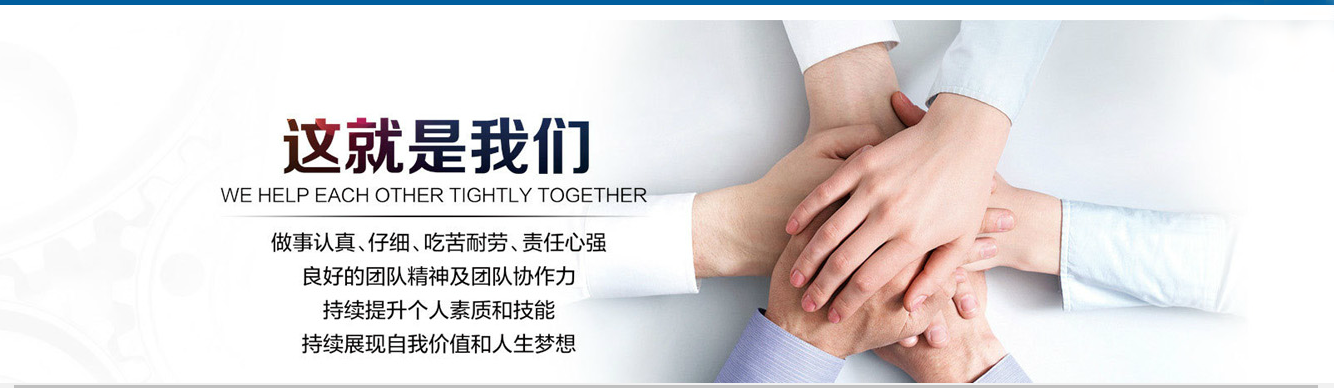
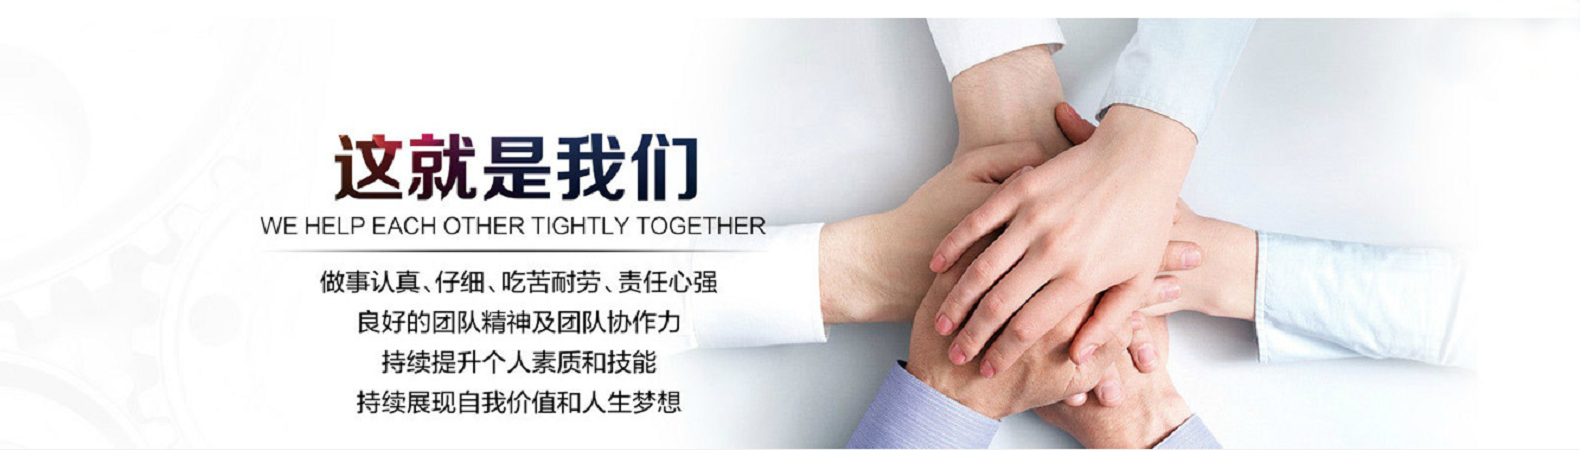
完成04-27

diff --git a/public/css/index.css b/public/css/index.css
@@ -12,7 +12,7 @@
 }
 .module .center {
     position: absolute;
-    left: 50%;
+    left: 45%;
     top: 0;
     width: 1000px;
     height: 98px;
@@ -39,7 +39,7 @@
     height: 98px;
     border-right: 1px solid transparent;
     /*background: url(../images/y-bg4.png) no-repeat right center;*/
-    overflow: hidden;
+    /*overflow: hidden;*/
 }
 .kwicks .kwick div {
     width: 655px;
@@ -73,7 +73,7 @@
     padding-top: 10px;
     line-height: 20px;
     margin-left: 24px;
-    width: 300px;
+    width: 650px;
     float: left;
     font-size: 12px;
     /*font-family: '微软雅黑';*/

diff --git a/resources/views/index.blade.php b/resources/views/index.blade.php
@@ -79,16 +79,15 @@
     <section class="slider">
         <div id="slider" class="flexslider">
             <ul class="slides">
-                @if($data['about']->carousel != null)
+                @if($data['about']->picture != null)
                     <?php
-                    $pics = explode('@', $data['about']->carousel);
-                    $baseurl = $pics[0];
-                    $imagepath = array_shift($pics);
+                    $temps = explode(';', $data['about']->picture);
                     ?>
-                    @foreach($imagepath as $item)
+                    @foreach($temps as $item)
+                            <?php  $pic = explode('@', $item);?>
                         <li clearfix>
-                            <div class="col-sm-6">
-                                <img src="{{$baseurl}}{{$item}}" alt=""/>
+                            <div class="images">
+                                <img src="{{$pic[1]}}" alt="{{$pic[0]}}"/>
                             </div>
                         </li>
                     @endforeach
@@ -143,18 +142,18 @@
     </div>
     <div class="con_01">
         <div class="product_index index_title">
-            <p class="product_title">产品中心
+            <p class="product_title">@if($data['lang'] == 1) 产品中心 @else Product @endif
                 {{--<span>Product</span>--}}
             </p>
-            <p class="product_subtitle">Product</p>
-            <p class="product_subtitle">主营酸类、碱类、盐类、化学试剂等</p>
+            {{--<p class="product_title">Product</p>--}}
+            <p class="product_subtitle">@if($data['lang'] == 1) 主营酸类、碱类、盐类、化学试剂等 @else Main acids, alkaloids, salts, chemical reagents, etc. @endif</p>
         </div>
         <div class="box">
             <ul>
                 <li>
                     <dl>
                         <dt>
-                            <div class="fl span01">酸类</div>
+                            <div class="fl span01">@if($data['lang'] == 1) 酸类 @else Acids @endif</div>
                             <div class="fr pt5"><a href="/products?ptype=3" style="color:#5fa4e9;font-family:Arial;font-size:10px;">MORE&gt;</a></div>
                             <div class="cle"></div>
                         </dt>
@@ -164,7 +163,7 @@
                 <li>
                     <dl>
                         <dt>
-                            <div class="fl span01">碱类</div>
+                            <div class="fl span01">@if($data['lang'] == 1) 碱类 @else Alkaloids @endif</div>
                             <div class="fr pt5"><a href="/products?ptype=5" style="color:#5fa4e9;font-family:Arial;font-size:10px;">MORE&gt;</a></div>
                             <div class="cle"></div>
                         </dt>
@@ -174,7 +173,7 @@
                 <li>
                     <dl>
                         <dt>
-                            <div class="fl span01">盐类</div>
+                            <div class="fl span01">@if($data['lang'] == 1) 盐类 @else Salts @endif</div>
                             <div class="fr pt5"><a href="/products?ptype=6" style="color:#5fa4e9;font-family:Arial;font-size:10px;">MORE&gt;</a></div>
                             <div class="cle"></div>
                         </dt>
@@ -184,7 +183,7 @@
                 <li>
                     <dl>
                         <dt>
-                            <div class="fl span01">化学试剂</div>
+                            <div class="fl span01">@if($data['lang'] == 1) 化学试剂 @else Chemical reagents @endif</div>
                             <div class="fr pt5"><a href="/products?ptype=7" style="color:#5fa4e9;font-family:Arial;font-size:10px;">MORE&gt;</a></div>
                             <div class="cle"></div>
                         </dt>
@@ -243,11 +242,11 @@
     {{--</div>--}}
     <div class="about">
         <div class="product_index index_title" style="padding-top: 1.5rem; padding-bottom:1.5rem;background-color: #00adb5">
-            <p class="product_title">关于我们
+            <p class="product_title">@if($data['lang']==1) 关于我们 @else About Us @endif
                 {{--<span></span>--}}
             </p>
             {{--<p class="product_subtitle">{{$data['about']->brief}}</p>--}}
-            <p class="product_subtitle">About Us</p>
+            {{--<p class="product_subtitle">About Us</p>--}}
         </div>
         <div class="about-content">
             {{--<img src="{{asset('images/pic9.jpg')}}">--}}

diff --git a/resources/views/admin/addAds.blade.php b/resources/views/admin/addAds.blade.php
@@ -82,7 +82,7 @@
         <div class="card">
             <div class="header">
                 <h2>
-                    新增企业展示照片
+                    新增首页轮播图片
                 </h2>
             </div>
             <div class="top-border operate-content">
@@ -145,13 +145,13 @@
                     showCancelButton: true,
                     showConfirmButton: false
                 });
-            } else if (file.size > 2 * 1024 * 1024) {
+            } else if (file.size > 5 * 1024 * 1024) {
                 isCorrect = false;
                 $("#picture-big").val("");
                 swal({
                     title: "错误",
                     type: "error",
-                    text: "图片文件最大支持：2MB",
+                    text: "图片文件最大支持：5MB",
                     cancelButtonText: "关闭",
                     showCancelButton: true,
                     showConfirmButton: false
@@ -167,20 +167,20 @@
                         var height = image.height;
                         console.log(width + "//" + height);
 
-                        if (width !== 480 || height !== 480) {
+                        if (width < 1580 || height < 450) {
                             isCorrect = false;
                             $("#picture-big").val("");
                             swal({
                                 title: "错误",
                                 type: "error",
-                                text: "当前选择图片分辨率为: " + width + "px * " + height + "px \n大图片广告分辨率应为 480像素 * 480像素",
+                                text: "当前选择图片分辨率为: " + width + "px * " + height + "px \n大图片广告分辨率应为 1580像素 * 450像素",
                                 cancelButtonText: "关闭",
                                 showCancelButton: true,
                                 showConfirmButton: false
                             });
                         } else if (isCorrect) {
                             $("#preview-holder-big").html("<div class='image-preview'>" +
-                                "<img src='" + objectUrl + "' width='200' height='200'>" +
+                                "<img src='" + objectUrl + "' width='316' height='90'>" +
                                 "<i class='material-icons delete-image' onclick='deleteBigImage(this)'>close</i></div>");
                         }
                     };
@@ -226,7 +226,7 @@
 
             if (file.prop("files")[0] === undefined) {
                 console.log("file is empty");
-                setError(file, 'picture-big', "请上传广告图片200像素 * 200像素");
+                setError(file, 'picture-big', "请上传广告图片1580像素 * 450像素");
                 return;
             } else {
                 removeError(file, 'picture-big');
@@ -245,6 +245,9 @@
                 success: function (data) {
                     var result = JSON.parse(data);
                     checkResult(result.status, "添加成功", result.msg, null);
+                     setTimeout(function () {
+                         location.href="/admin/ads";
+                     }, 500);
                 },
                 error: function (xhr, ajaxOptions, thrownError) {
                     swal(xhr.status + "：" + thrownError);

diff --git a/resources/views/about.blade.php b/resources/views/about.blade.php
@@ -186,12 +186,12 @@
                         </div>
                         <div class="sidebar-item  recent">
                             <div class="widget">
-                                <h3 class="title">联系我们</h3>
+                                <h3 class="title">@if($data['lang']==1) 联系我们 @else Contact Us @endif</h3>
                                 <div class="content community">
-                                    <p>电话：{{$data['about']->tel}}</p>
-                                    <p>邮箱：{{$data['about']->email}}</p>
-                                    <p>传真：{{$data['about']->fax}}</p>
-                                    <p>公司地址：{{$data['about']->address}}</p>
+                                    <p>@if($data['lang']==1) 电话 @else Phone @endif：{{$data['about']->tel}}</p>
+                                    <p>@if($data['lang']==1) 邮箱 @else E-mail @endif：{{$data['about']->email}}</p>
+                                    <p>@if($data['lang']==1) 传真 @else Fax @endif：{{$data['about']->fax}}</p>
+                                    <p>@if($data['lang']==1) 公司地址 @else Address @endif：{{$data['about']->address}}</p>
                                     {{--<p><a href="http://wenda.ghostchina.com/" title="Ghost中文网问答社区" target="_blank" onclick="_hmt.push(['_trackEvent', 'big-button', 'click', '问答社区'])"><i class="fa fa-comments"></i> 问答社区</a></p>--}}
                                     {{--<p><a href="http://weibo.com/ghostchinacom" title="Ghost中文网官方微博" target="_blank" onclick="_hmt.push(['_trackEvent', 'big-button', 'click', '官方微博'])"><i class="fa fa-weibo"></i> 官方微博</a></p>--}}
                                 </div>

diff --git a/resources/views/advantage.blade.php b/resources/views/advantage.blade.php
@@ -170,12 +170,12 @@
                         </div>
                         <div class="sidebar-item  recent">
                             <div class="widget">
-                                <h3 class="title">联系我们</h3>
+                                <h3 class="title">@if($data['lang']==1) 联系我们 @else Contact Us @endif</h3>
                                 <div class="content community">
-                                    <p>电话：{{$data['about']->tel}}</p>
-                                    <p>邮箱：{{$data['about']->email}}</p>
-                                    <p>传真：{{$data['about']->fax}}</p>
-                                    <p>公司地址：{{$data['about']->address}}</p>
+                                    <p>@if($data['lang']==1) 电话 @else Phone @endif：{{$data['about']->tel}}</p>
+                                    <p>@if($data['lang']==1) 邮箱 @else E-mail @endif：{{$data['about']->email}}</p>
+                                    <p>@if($data['lang']==1) 传真 @else Fax @endif：{{$data['about']->fax}}</p>
+                                    <p>@if($data['lang']==1) 公司地址 @else Address @endif：{{$data['about']->address}}</p>
                                     {{--<p><a href="http://wenda.ghostchina.com/" title="Ghost中文网问答社区" target="_blank" onclick="_hmt.push(['_trackEvent', 'big-button', 'click', '问答社区'])"><i class="fa fa-comments"></i> 问答社区</a></p>--}}
                                     {{--<p><a href="http://weibo.com/ghostchinacom" title="Ghost中文网官方微博" target="_blank" onclick="_hmt.push(['_trackEvent', 'big-button', 'click', '官方微博'])"><i class="fa fa-weibo"></i> 官方微博</a></p>--}}
                                 </div>

diff --git a/resources/views/marketing.blade.php b/resources/views/marketing.blade.php
@@ -171,12 +171,12 @@
                         </div>
                         <div class="sidebar-item  recent">
                             <div class="widget">
-                                <h3 class="title">联系我们</h3>
+                                <h3 class="title">@if($data['lang']==1) 联系我们 @else Contact Us @endif</h3>
                                 <div class="content community">
-                                    <p>电话：{{$data['about']->tel}}</p>
-                                    <p>邮箱：{{$data['about']->email}}</p>
-                                    <p>传真：{{$data['about']->fax}}</p>
-                                    <p>公司地址：{{$data['about']->address}}</p>
+                                    <p>@if($data['lang']==1) 电话 @else Phone @endif：{{$data['about']->tel}}</p>
+                                    <p>@if($data['lang']==1) 邮箱 @else E-mail @endif：{{$data['about']->email}}</p>
+                                    <p>@if($data['lang']==1) 传真 @else Fax @endif：{{$data['about']->fax}}</p>
+                                    <p>@if($data['lang']==1) 公司地址 @else Address @endif：{{$data['about']->address}}</p>
                                     {{--<p><a href="http://wenda.ghostchina.com/" title="Ghost中文网问答社区" target="_blank" onclick="_hmt.push(['_trackEvent', 'big-button', 'click', '问答社区'])"><i class="fa fa-comments"></i> 问答社区</a></p>--}}
                                     {{--<p><a href="http://weibo.com/ghostchinacom" title="Ghost中文网官方微博" target="_blank" onclick="_hmt.push(['_trackEvent', 'big-button', 'click', '官方微博'])"><i class="fa fa-weibo"></i> 官方微博</a></p>--}}
                                 </div>

diff --git a/resources/views/news.blade.php b/resources/views/news.blade.php
@@ -227,12 +227,12 @@
                         </div>
                         <div class="sidebar-item  recent">
                             <div class="widget">
-                                <h3 class="title">联系我们</h3>
+                                <h3 class="title">@if($data['lang']==1) 联系我们 @else Contact Us @endif</h3>
                                 <div class="content community">
-                                    <p>电话：{{$data['about']->tel}}</p>
-                                    <p>邮箱：{{$data['about']->email}}</p>
-                                    <p>传真：{{$data['about']->fax}}</p>
-                                    <p>公司地址：{{$data['about']->address}}</p>
+                                    <p>@if($data['lang']==1) 电话 @else Phone @endif：{{$data['about']->tel}}</p>
+                                    <p>@if($data['lang']==1) 邮箱 @else E-mail @endif：{{$data['about']->email}}</p>
+                                    <p>@if($data['lang']==1) 传真 @else Fax @endif：{{$data['about']->fax}}</p>
+                                    <p>@if($data['lang']==1) 公司地址 @else Address @endif：{{$data['about']->address}}</p>
                                     {{--<p><a href="http://wenda.ghostchina.com/" title="Ghost中文网问答社区" target="_blank" onclick="_hmt.push(['_trackEvent', 'big-button', 'click', '问答社区'])"><i class="fa fa-comments"></i> 问答社区</a></p>--}}
                                     {{--<p><a href="http://weibo.com/ghostchinacom" title="Ghost中文网官方微博" target="_blank" onclick="_hmt.push(['_trackEvent', 'big-button', 'click', '官方微博'])"><i class="fa fa-weibo"></i> 官方微博</a></p>--}}
                                 </div>

diff --git a/resources/views/products.blade.php b/resources/views/products.blade.php
@@ -172,12 +172,12 @@
                         </div>
                         <div class="sidebar-item  recent">
                             <div class="widget">
-                                <h3 class="title">联系我们</h3>
+                                <h3 class="title">@if($data['lang']==1) 联系我们 @else Contact Us @endif</h3>
                                 <div class="content community">
-                                    <p>电话：{{$data['about']->tel}}</p>
-                                    <p>邮箱：{{$data['about']->email}}</p>
-                                    <p>传真：{{$data['about']->fax}}</p>
-                                    <p>公司地址：{{$data['about']->address}}</p>
+                                    <p>@if($data['lang']==1) 电话 @else Phone @endif：{{$data['about']->tel}}</p>
+                                    <p>@if($data['lang']==1) 邮箱 @else E-mail @endif：{{$data['about']->email}}</p>
+                                    <p>@if($data['lang']==1) 传真 @else Fax @endif：{{$data['about']->fax}}</p>
+                                    <p>@if($data['lang']==1) 公司地址 @else Address @endif：{{$data['about']->address}}</p>
                                     {{--<p><a href="http://wenda.ghostchina.com/" title="Ghost中文网问答社区" target="_blank" onclick="_hmt.push(['_trackEvent', 'big-button', 'click', '问答社区'])"><i class="fa fa-comments"></i> 问答社区</a></p>--}}
                                     {{--<p><a href="http://weibo.com/ghostchinacom" title="Ghost中文网官方微博" target="_blank" onclick="_hmt.push(['_trackEvent', 'big-button', 'click', '官方微博'])"><i class="fa fa-weibo"></i> 官方微博</a></p>--}}
                                 </div>

diff --git a/resources/views/admin/products.blade.php b/resources/views/admin/products.blade.php
@@ -201,24 +201,24 @@
             } else {
                 removeError(en_name, 'en_name');
             }
-            if (model.val() === '') {
-                setError(model, 'model', '不能为空');
-                return;
-            } else {
-                removeError(model, 'model');
-            }
-            if (package1.val() === '') {
-                setError(package1, 'package1', '不能为空');
-                return;
-            } else {
-                removeError(package1, 'package1');
-            }
-            if (cas.val() === '') {
-                setError(cas, 'cas', '不能为空');
-                return;
-            } else {
-                removeError(cas, 'cas');
-            }
+//            if (model.val() === '') {
+//                setError(model, 'model', '不能为空');
+//                return;
+//            } else {
+//                removeError(model, 'model');
+//            }
+//            if (package1.val() === '') {
+//                setError(package1, 'package1', '不能为空');
+//                return;
+//            } else {
+//                removeError(package1, 'package1');
+//            }
+//            if (cas.val() === '') {
+//                setError(cas, 'cas', '不能为空');
+//                return;
+//            } else {
+//                removeError(cas, 'cas');
+//            }
 
             var formData = new FormData();
             formData.append("ch_name", ch_name.val());

diff --git a/resources/views/contact.blade.php b/resources/views/contact.blade.php
@@ -269,12 +269,13 @@
                         <p> @if($data['lang'] == 1) 邮箱 @else E-mail @endif: <a href="mailto:{{$data['about']->email}}">{{$data['about']->email}}</a></p>
                         <p> @if($data['lang'] == 1) 电话 @else Phone  @endif: {{$data['about']->tel}}</p>
                         <p> @if($data['lang'] == 1) 传真 @else Fax    @endif: {{$data['about']->fax}}</p>
+                        <p> @if($data['lang'] == 1) 公司地址 @else Address @endif:{{$data['about']->address}}</p>
                     </address>
 
-                    <h2>@if($data['lang'] == 1) 公司地址 @else Address @endif</h2>
-                    <address>
-                       <p>{{$data['about']->address}}</p>
-                    </address>
+                    {{--<h2></h2>--}}
+                    {{--<address>--}}
+                       {{--<p>{{$data['about']->address}}</p>--}}
+                    {{--</address>--}}
                 </div>
             </div>
             <div class="col-md-8 col-sm-12">

diff --git a/resources/views/admin/ads.blade.php b/resources/views/admin/ads.blade.php
@@ -43,11 +43,15 @@
                     ?>
                     @foreach($pics as $pic)
                         <?php $temp = explode('@', $pic);?>
+                        @if(sizeof($temp) >=2)
                         <div class="col-lg-3 col-md-4 col-sm-6 col-xs-12 operate-btn big-image--btn">
                             <img src="{{$temp[1]}}"/>
                             <h5>{{$temp[0]}}</h5>
                             <input class="delete" type="button" data-content="{{$temp[1]}}" value="删除"/>
                         </div>
+                        @else
+                            <p>暂无图片</p>
+                        @endif
                     @endforeach
                     <div style="clear:both;"></div>
                 </div>
